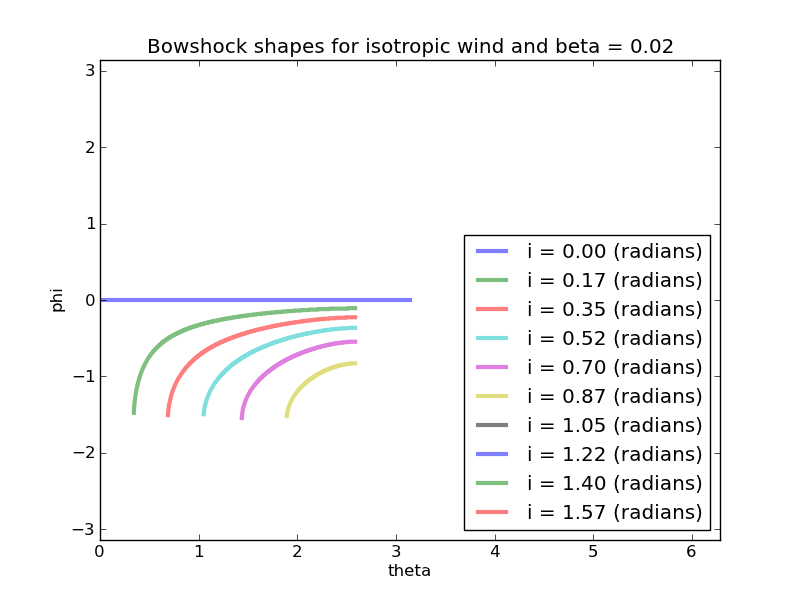
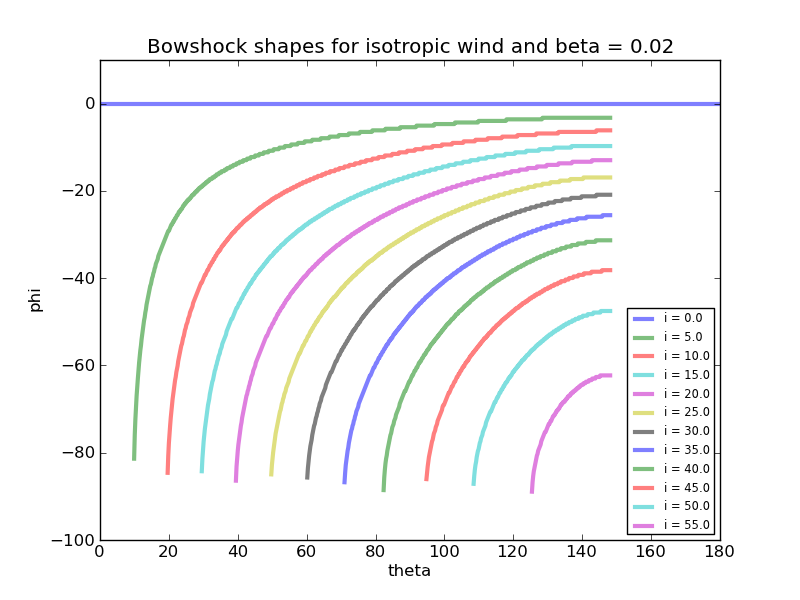
Cosmetic improvements to plane-of-sky plots
+ Use degrees instead of radians
+ Only show key for lines that actually exist
+ Use finer grid of inclinations (every 5 degrees)
+ More sensible axis limits

diff --git a/prop-plane-sky.py b/prop-plane-sky.py
@@ -37,7 +37,7 @@ phi = np.linspace(-np.pi,np.pi,N, endpoint=False)
 #Meshgrid theta and phi:
 THETA,PHI = np.meshgrid(theta,phi)
 DPHI = 2*np.pi/N
-i = np.linspace(0.0, 0.5*np.pi, 10)
+i = np.linspace(0.0, 0.5*np.pi, 19)
 for inn in innertype:
     print "******{} case******".format(inn)
     for b in beta:
@@ -69,31 +69,31 @@ for inn in innertype:
         x,y,z = R*np.cos(THETA),R*np.sin(THETA)*np.cos(PHI),R*np.sin(THETA)*np.sin(PHI)
         for j in i:
             SenodePhiT = np.tan(j) * ( ( 1+ W*np.tan(THETA) )/( W-np.tan(THETA) ) )
-            mask = np.abs(SenodePhiT) <= 1.  #Discard non real values for the angle of tangent line
-            mask2 = (np.sin(PHI-0.5*DPHI) <= SenodePhiT)  &  (SenodePhiT <= np.sin(PHI +0.5*DPHI)) #change added
-            thph_ax.plot( THETA[mask & mask2], PHI[mask & mask2], '-', 
-                          alpha=0.5, lw=3,
-                          label = "i = {:.2f} (radians)".format(j))
+            mask = (np.sin(PHI-0.5*DPHI) <= SenodePhiT) \
+                   & (SenodePhiT <= np.sin(PHI +0.5*DPHI)) #change added
+            label = "i = {:.1f}".format(np.degrees(j))
+            if np.any(mask):
+                # only plot a line if there really is one
+                thph_ax.plot(np.degrees(THETA[mask]), np.degrees(PHI[mask]), 
+                             '-', alpha=0.5, lw=3, label=label)
+                xi,yi,zi = x*np.cos(j) + z*np.sin(j), y , -x*np.sin(j)+z*np.cos(j) 
+                xy_ax.plot(xi[mask], yi[mask], '-', alpha=0.5, lw=3, label=label)
 
-            xi,yi,zi = x*np.cos(j) + z*np.sin(j), y , -x*np.sin(j)+z*np.cos(j) 
-            xy_ax.plot(xi[mask & mask2], yi[mask & mask2], '-',
-                        alpha=0.5, lw=3,
-                        label = "i = {:.2f} (radians)".format(j))
 #first trial: plot (xi,yi) when i = 0 and phi = 0 (Proplyd in the XY plane without any rotation, we should reproduce the last cases)
 #second trial: plot (xi,yi) for i = pi/6 (30 degrees)
 #Third trial: plot (xi,yi) for different i values
 #plt.plot(xi[PHI==0],yi[PHI==0],label = 'No rotation')
             #plt.plot(xi[PHI==np.arcsin(SenodePhiT[mask])],yi[PHI==np.arcsin(SenodePhiT[mask])],label = '30 deg rotation')
-        thph_ax.legend(loc="lower right")
-        thph_ax.axis([0.0, 2*np.pi, -np.pi, np.pi])
+        thph_ax.legend(loc="lower right", prop=dict(size="x-small"))
+        thph_ax.axis([0.0, 180.0, -100.0, 10.0])
         thph_ax.set_xlabel('theta')
         thph_ax.set_ylabel('phi')
         thph_ax.set_title('Bowshock shapes for {} wind and beta = {}'.format(inn,b))
         thph_fig.savefig('{}-wind-theta-phi-beta = {}.png'.format(inn,b))
         thph_fig.clf()
 
-        xy_ax.legend(loc="lower left")
-        xy_ax.axis([-4.5, 1.5, -3.0, 3.0])
+        xy_ax.legend(loc="upper right", prop=dict(size="x-small"))
+        xy_ax.axis([-1.4, 0.6, -0.1, 1.9])
         xy_ax.set_xlabel('x')
         xy_ax.set_ylabel('y')
         xy_ax.set_title('Bowshock shapes for {} wind and beta = {}'.format(inn,b))
